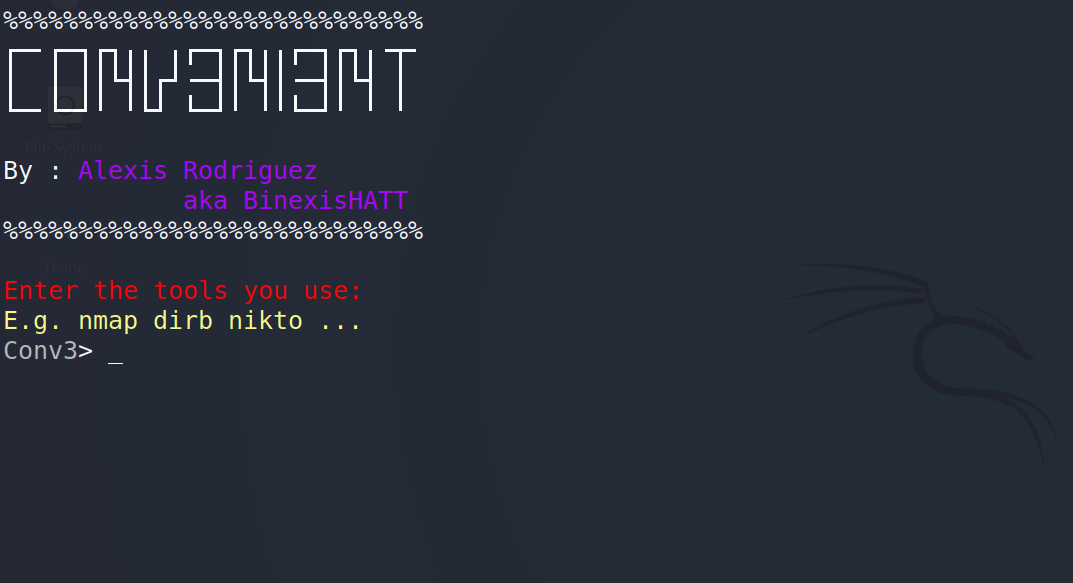
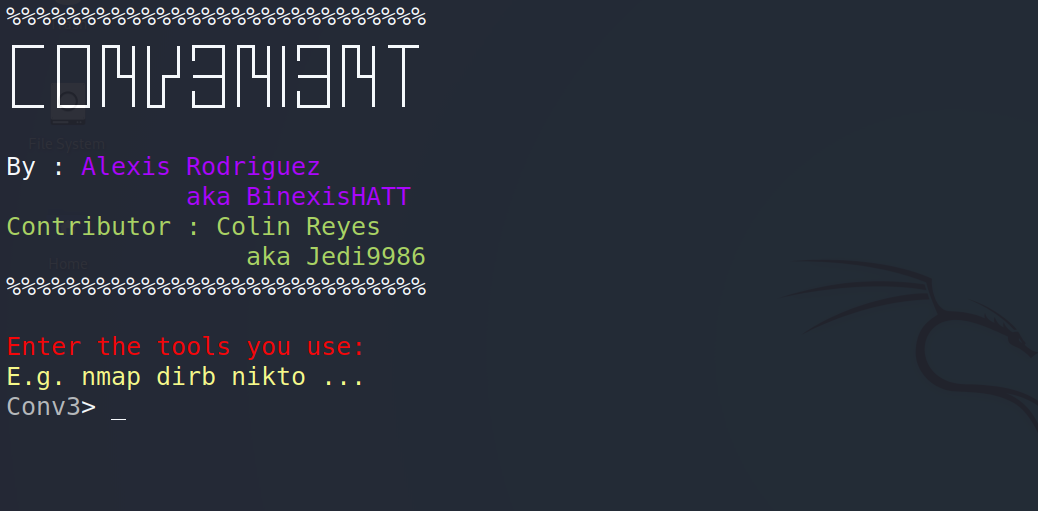
updating

diff --git a/conv3ni3nt.py b/conv3ni3nt.py
@@ -1,14 +1,19 @@
 #!/usr/bin/env python3
+
 '''
 ----------------------------------------------------------------
 Author : Alexis Rodriguez
 Start date : 2020-02-26
 End date : 
 
-%%%%%%%%%%%%%%%%%%%%%%%%%%%%%%%%%%%%%%%%%%%%%%%%%%%%%%%%%%%%%%%%
-Description : This tool will t
+****************************************************************
+Description : This tool will provide its user's with an easier 
+way to gather information during the information gathering 
+phase of a penetration test. The user has access to all tools 
+installed on there machine must only worry about passing
+invalid arguments to the prompts. 
 
-%%%%%%%%%%%%%%%%%%%%%%%%%%%%%%%%%%%%%%%%%%%%%%%%%%%%%%%%%%%%%%%%
+****************************************************************
 ----------------------------------------------------------------
 '''
 try:
@@ -18,7 +23,7 @@ try:
 	import sys
 	# > import os for performing terminal commands
 	import os
-	# > import threading for utilizing 
+	# > import threading for threading operations
 	import threading
 	# > import subprocess for executing bash commands
 	import subprocess as subp
@@ -35,6 +40,9 @@ except ImportError:
 class Conv3ni3nt:
 	def __init__(self, interface_obj):
 		'''
+		Initializing all necessary variables for this class
+
+		params : the interface object that was instantiated in main
 		'''
 		
 		# > create object to interact with interface
@@ -47,11 +55,13 @@ class Conv3ni3nt:
 
 	def get_tools(self):
 		'''
+		displays the tools prompt and stores the tools in a list
+		and returns the tool list
 		'''
 
 		# > display select tools prompt
 		self.interface.tools_prompt()
-
+		# > the tools that are specified
 		tools = input('%sConv3%s> ' % (fg(self.interface.gray), attr(0)))
 		# > if the user types in exit
 		if 'exit' in tools:
@@ -68,6 +78,7 @@ class Conv3ni3nt:
 
 	def get_tool_options(self):
 		'''
+		will display the tool options prompt and record the options that were passed
 
 		'''
 
@@ -77,13 +88,14 @@ class Conv3ni3nt:
 		self.interface.signature()
 		# > our list containing the options for each tool
 		options_list = []
-		print('%sType "help" for menu%s' % (fg(self.interface.rancolor), attr(0)))
+		# > prompt user for help menu
+		print('%stype "help" for menu%s' % (fg(self.interface.rancolor), attr(0)))
 		# > iterate over every tool and prompt user for the desired options
 		for tool in self.tool_list:
 			# > this addition is simply formating for our colored module
 			tool = '%s' + tool + '%s'
 			# > store user input in variable
-			tool_option = input('Enter ' + tool % (fg(self.interface.rancolor), attr(0)) + ' options : ')
+			tool_option = input('enter ' + tool % (fg(self.interface.rancolor), attr(0)) + ' options : ')
 
 			# > if exit is the inputed option, exit the program
 			if 'exit' in tool_option:
@@ -101,44 +113,58 @@ class Conv3ni3nt:
 		this is another auxiliary function for generating convient file names
 		Params : tool that is being used, the tools options
 		'''
-
-		if len(tool_options) == 1:
-			return tool_name + '_' + tool_options[0]
-		# > return crafted name
-		return tool_name + '_' + '_'.join(tool_options.split())
+		# > if the option contains the following string
+		# > cut the string out of the option
+		if 'http://' in tool_options:
+			# > getting appropiate substring
+			tool_options = tool_options[7:]
+		# > return the file name
+		return tool_name + ' ' + tool_options
 
 
 	def start_tool(self, tool, tool_options):
 		'''
+		start the tool with the options that were specified
 		
-		Params : 
+		Params : the name of the tool, the options for the tool
 		'''
 
 		# > subprocess.run requires a list when stdout is not directed to shell
 		# > so converting our command string to a list)
 		command = (tool + ' ' + ''.join(tool_options)).split()
-
+		# > if user types in help, display the tools menu
 		if tool_options == 'help':
-
-			subp.run(tool,shell=True)
+			# > call the tool without any arguments
+			# > which will display menu for most tools
+			subp.run(tool, shell=True)
 			# > prompt user to verify if they would like to go back to the tool options screen 
-			go_back = input('%sType "back" to go back to tool prompt: %s' % (fg(self.interface.red),attr(0)))
+			go_back = input('%stype "back" to go back to tool prompt: %s' % (fg(self.interface.red), attr(0)))
 			# > if input is back then display options screen
 			if go_back.strip() == 'back':
-
+				# > return to previous display
 				self.return_to_options_prompt(tool)
+		# > if the use does not type in help, do the following
 		else:
-			# > get file name to create
-			file_name = self.generate_file_name(tool, tool_options)
-			# > open file created for writing
-			with open(file_name, 'w') as tool_file:
-			# > use the tool with its options and direct output to file
-				subp.run(command,stdout=tool_file,text=True)
+			# > try opening file
+			try:
+				# > get file name to create
+				file_name = self.generate_file_name(tool, tool_options)
+			# throw exception
+			except:
+				print('%Serror creating file%s' % (fg(self.interface.lightyellow), attr(0)))
+				# > exit program
+				os.system('clear')
+			# > create thread
+			thread = threading.Thread(target=self.create_thread,
+										args=(file_name, command,))
+			# > start thread
+			thread.start()
 
 
 	def return_to_options_prompt(self, tool):
 		'''
-		this is a auxiliary function for returning to the tool prompt display
+		this is an auxiliary function for returning to the tool prompt display
+
 		params : tool that is currently being used
 		'''
 
@@ -146,6 +172,25 @@ class Conv3ni3nt:
 		tool_options = self.get_tool_options()
 		# > a little recursion going on here
 		self.start_tool(tool, tool_options)
+
+
+	def create_thread(self, file_arg, command):
+		'''
+		start each tool on a different thread
+
+		params : the name of thee file, the command to execute
+		'''
+
+		# > open file created for writing
+		with open(file_arg, 'w') as tool_file:
+		# > use the tool with its options and direct output to file
+			subp.run(command,
+				# > redirecting stdout to file
+				stdout=tool_file, 
+				# > redirecting std err to stdout
+				stderr=subp.STDOUT,
+				# > save data a normal text
+				text=True)
 
 
 # %%%%%%%%%%%%%%%%
@@ -165,10 +210,11 @@ def initiate():
 	# > zip up both the tool and tool options
 	# > and send the variable to the function that'll start the tool
 	for tool, options in zip(tools_lst, tool_options):
-
+		# > call function to which start tool
 		conv3_obj.start_tool(tool, options)
 
-	display.progress_bar(tools_lst)
+	display.success_bar()
+
 
 if __name__ == '__main__':
 	initiate()

diff --git a/interface.py b/interface.py
@@ -34,7 +34,9 @@ except ImportError:
 class Interface:
 	def __init__(self):
 		'''
+		initialize all necessary variables for the interface
 		'''
+
 		# > name of program
 		self.title='Conv3ni3nt'
 		# > figlet font used for title
@@ -50,38 +52,47 @@ class Interface:
 
 	def signature(self):
 		'''
+		print out title and authors
 		'''
 
+		# > declaring Figlet object
 		sig = Figlet(font=self.font)
 
 		print('%%%%%%%%%%%%%%%%%%%%%%%%%%%%')
-
+		# > print title
 		print(sig.renderText(self.title))
-
+		''' print authors and contributors '''
 		print('By : ' + '%sAlexis Rodriguez%s' % (fg(self.purple), attr(0)))
 
 		print('%s\t    aka BinexisHATT%s' % (fg(self.purple), attr(0)))
+
+		print('%sContributor : Colin Reyes%s' % (fg(self.rancolor), attr(0)))
+
+		print('%s\t\taka Jedi9986%s' % (fg(self.rancolor), attr(0)))
 
 		print('%%%%%%%%%%%%%%%%%%%%%%%%%%%%\n')
 
 
 	def tools_prompt(self):
 		'''
+		the prompt that is displayed for user to enter tool options
 		'''
-
+		# > prompt for the tools the user would like to use
 		print('%sEnter the tools you use: %s' % (fg(self.red), attr(0)))
-
+		# > show usage like string
 		print('%sE.g. nmap dirb nikto ...%s' % (fg(self.lightyellow), attr(0)))
 
 
-	def progress_bar(self, tool_list):
+	def success_bar(self):
 		'''
 		Generate progress bar with name of tools used
 		params : list of the tools that were used
 		'''
+
 		# > this addition is just formating for the colored module
 		# > using tqdm to generate progress bar
-		for p in tqdm(range(100),desc='%sInitiating scans%s' % (fg(self.rancolor), attr(0))):
+		print('\n')
+		for _ in tqdm(range(100), desc='%sstarting scans%s' % (fg(self.rancolor), attr(0))):
 			# > sleep for 0.2 seconds before next iterations
 			sleep(0.2)
 			# > continue to next iteration
